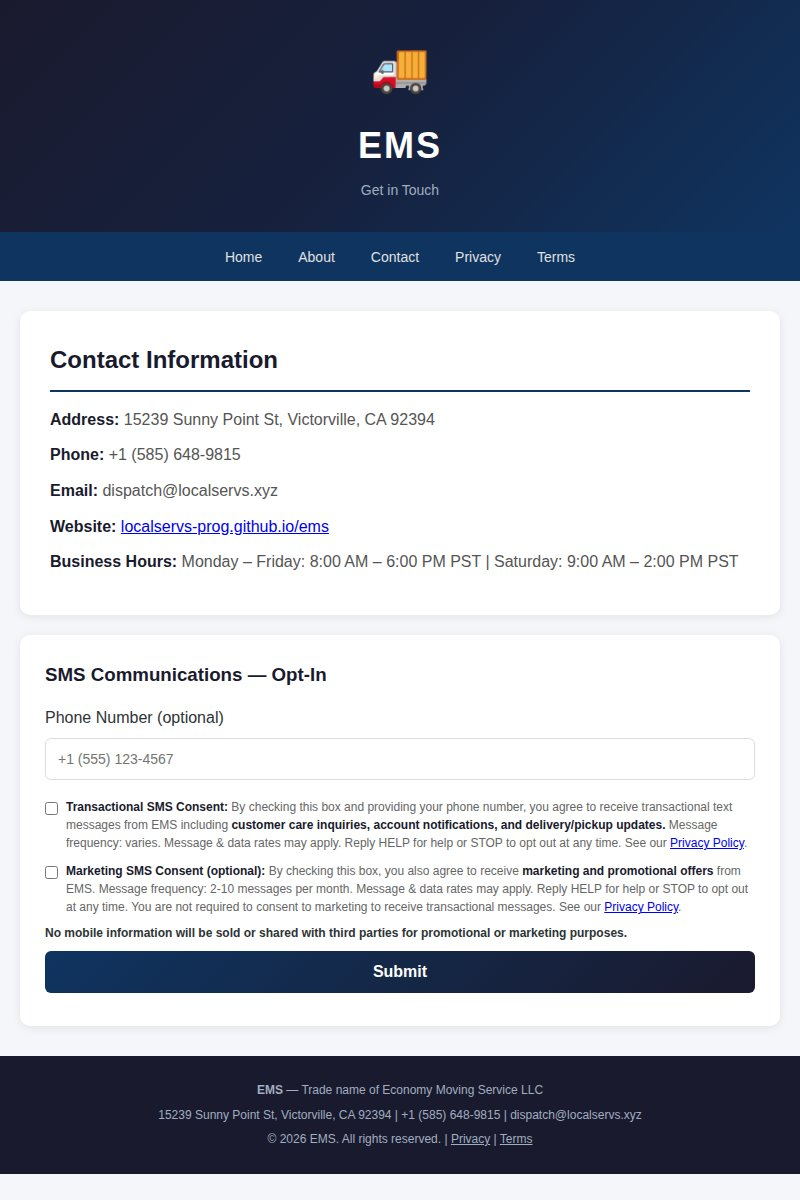
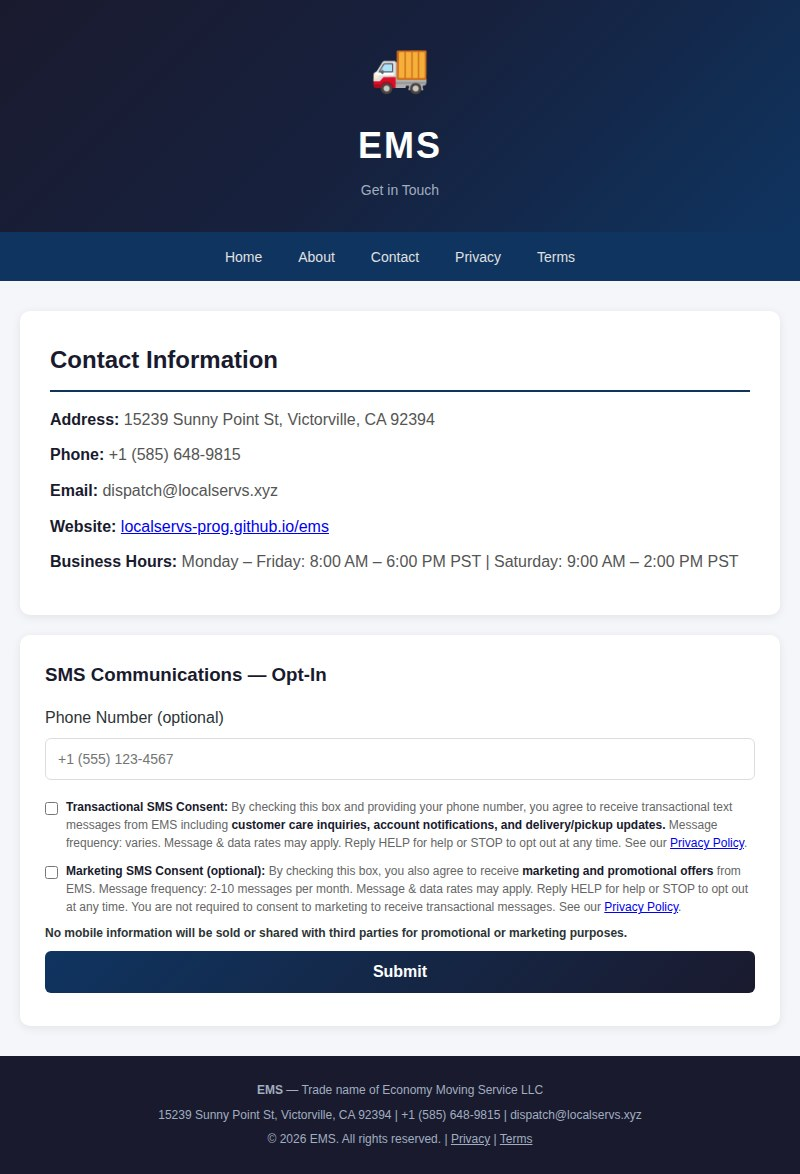
Separate transactional and marketing SMS disclosures (TFV compliance)

Changed region(s): [[0.0, 0.552, 1.0, 1.0], [0.0625, 0.276, 0.9375, 0.4906], [0.0, 0.0307, 1.0, 0.2453]]

diff --git a/privacy.html b/privacy.html
@@ -20,25 +20,17 @@ nav a:hover{color:#fff}
 .card strong{color:#1a1a2e}
 .footer{background:#1a1a2e;color:#a0aec0;text-align:center;padding:20px;font-size:12px;margin-top:30px}
 .footer p{margin:5px 0}
-.form-card{background:#fff;padding:25px;border-radius:10px;box-shadow:0 2px 10px rgba(0,0,0,0.08)}
-.form-card h3{color:#1a1a2e;margin-bottom:15px}
-.form-card input,.form-card button{padding:12px;margin:8px 0;width:100%;border:1px solid #ddd;border-radius:6px;font-size:14px}
-.form-card button{background:linear-gradient(135deg,#0f3460,#1a1a2e);color:#fff;border:none;font-size:16px;font-weight:600;cursor:pointer}
-.checkbox-group{display:flex;align-items:flex-start;gap:8px;margin-top:10px}
-.checkbox-group input[type="checkbox"]{width:auto;margin-top:4px;flex-shrink:0}
-.consent{font-size:12px;color:#666;line-height:1.5}
-.consent strong{color:#1a1a2e}
-.legal-note{font-size:11px;color:#e74c3c;text-align:center;margin-top:10px}
 </style></head><body>
 <div class="header"><span class="brand-truck">🚚</span><h1>EMS</h1><p class="tagline">Privacy Policy</p></div>
 <nav><a href="index.html">Home</a><a href="about.html">About</a><a href="contact.html">Contact</a><a href="privacy.html">Privacy</a><a href="terms.html">Terms</a></nav>
 <div class="container">
-<div class="card"><h2>Privacy Policy</h2><p><strong>Last updated:</strong> July 2026</p>
+<div class="card"><h2>Privacy Policy</h2><p><strong>Last updated:</strong> November 2026</p>
 <p>EMS ("we," "us," or "our") is committed to protecting your privacy.</p>
 <h3>Information Collection</h3><p>We collect your name, email, and phone number only when you voluntarily submit them through our contact form.</p>
-<h3>Use of Information</h3><p>Your information is used solely to communicate with you regarding our services, including SMS notifications about customer care, account updates, delivery/pickup status, and promotional offers.</p>
+<h3>Use of Information</h3><p>Your information is used solely to communicate with you regarding our services.</p>
 <h3>No Sale of Data</h3><p>No mobile information will be sold or shared with third parties for promotional or marketing purposes.</p>
-<h3>SMS Communications</h3><p>By providing your phone number and consenting to receive SMS, you may receive messages including customer care, account notifications, delivery updates, and marketing offers. Message frequency: 2-10 per month. Message &amp; data rates may apply. Reply STOP to opt out, HELP for help.</p>
+<h3>SMS Communications — Transactional</h3><p>If you opt in to transactional messages, we may send you text messages related to a service you requested, including customer care responses, account notifications, and delivery/pickup status updates. Message frequency varies based on your requests and active service. Message &amp; data rates may apply. Reply STOP to opt out, HELP for help. Consent is not a condition of purchase.</p>
+<h3>SMS Communications — Marketing</h3><p>If you separately opt in to marketing messages, we may send you promotional offers and service announcements, up to 10 messages per month. Message &amp; data rates may apply. Reply STOP to opt out, HELP for help. Marketing consent is optional and is not required to receive transactional messages; transactional service is not conditioned on marketing consent.</p>
 <h3>Data Security</h3><p>We implement reasonable security measures to protect your personal information.</p>
 <h3>Contact</h3><p>For privacy inquiries: dispatch@localservs.xyz</p></div>
 </div>

diff --git a/terms.html b/terms.html
@@ -20,23 +20,13 @@ nav a:hover{color:#fff}
 .card strong{color:#1a1a2e}
 .footer{background:#1a1a2e;color:#a0aec0;text-align:center;padding:20px;font-size:12px;margin-top:30px}
 .footer p{margin:5px 0}
-.form-card{background:#fff;padding:25px;border-radius:10px;box-shadow:0 2px 10px rgba(0,0,0,0.08)}
-.form-card h3{color:#1a1a2e;margin-bottom:15px}
-.form-card input,.form-card button{padding:12px;margin:8px 0;width:100%;border:1px solid #ddd;border-radius:6px;font-size:14px}
-.form-card button{background:linear-gradient(135deg,#0f3460,#1a1a2e);color:#fff;border:none;font-size:16px;font-weight:600;cursor:pointer}
-.checkbox-group{display:flex;align-items:flex-start;gap:8px;margin-top:10px}
-.checkbox-group input[type="checkbox"]{width:auto;margin-top:4px;flex-shrink:0}
-.consent{font-size:12px;color:#666;line-height:1.5}
-.consent strong{color:#1a1a2e}
-.legal-note{font-size:11px;color:#e74c3c;text-align:center;margin-top:10px}
 </style></head><body>
 <div class="header"><span class="brand-truck">🚚</span><h1>EMS</h1><p class="tagline">Terms of Service</p></div>
 <nav><a href="index.html">Home</a><a href="about.html">About</a><a href="contact.html">Contact</a><a href="privacy.html">Privacy</a><a href="terms.html">Terms</a></nav>
 <div class="container">
-<div class="card"><h2>Terms of Service</h2><p><strong>Last updated:</strong> July 2026</p>
-<p>By using our SMS communication service, you may receive messages related to customer care, account notifications, delivery/pickup updates, and promotional offers.</p>
-<p>Standard message and data rates may apply. Message frequency: 2–10 messages per month.</p>
-<p>Reply STOP to unsubscribe at any time. Reply HELP for help.</p>
+<div class="card"><h2>Terms of Service</h2><p><strong>Last updated:</strong> November 2026</p>
+<p><strong>Transactional messages.</strong> By using our SMS communication service, you may receive transactional text messages related to a service you requested, including customer care responses, account notifications, and delivery/pickup status updates. Standard message and data rates may apply. Message frequency varies based on your requests. Reply STOP to unsubscribe at any time. Reply HELP for help.</p>
+<p><strong>Marketing messages.</strong> Separately, if you opt in to marketing messages, you may receive promotional offers and service announcements, up to 10 messages per month. Marketing consent is optional and is not required to receive transactional messages. Reply STOP to unsubscribe at any time. Reply HELP for help.</p>
 <p>EMS is a trade name of Economy Moving Service LLC, a registered business in the United States.</p></div>
 </div>
 <div class="footer">

diff --git a/about.html b/about.html
@@ -20,21 +20,12 @@ nav a:hover{color:#fff}
 .card strong{color:#1a1a2e}
 .footer{background:#1a1a2e;color:#a0aec0;text-align:center;padding:20px;font-size:12px;margin-top:30px}
 .footer p{margin:5px 0}
-.form-card{background:#fff;padding:25px;border-radius:10px;box-shadow:0 2px 10px rgba(0,0,0,0.08)}
-.form-card h3{color:#1a1a2e;margin-bottom:15px}
-.form-card input,.form-card button{padding:12px;margin:8px 0;width:100%;border:1px solid #ddd;border-radius:6px;font-size:14px}
-.form-card button{background:linear-gradient(135deg,#0f3460,#1a1a2e);color:#fff;border:none;font-size:16px;font-weight:600;cursor:pointer}
-.checkbox-group{display:flex;align-items:flex-start;gap:8px;margin-top:10px}
-.checkbox-group input[type="checkbox"]{width:auto;margin-top:4px;flex-shrink:0}
-.consent{font-size:12px;color:#666;line-height:1.5}
-.consent strong{color:#1a1a2e}
-.legal-note{font-size:11px;color:#e74c3c;text-align:center;margin-top:10px}
 </style></head><body>
 <div class="header"><span class="brand-truck">🚚</span><h1>EMS</h1><p class="tagline">About Our Company</p></div>
 <nav><a href="index.html">Home</a><a href="about.html">About</a><a href="contact.html">Contact</a><a href="privacy.html">Privacy</a><a href="terms.html">Terms</a></nav>
 <div class="container">
 <div class="card"><h2>About EMS</h2><p>EMS (Economy Moving Service LLC) is a professional moving and logistics company based in Victorville, California. We specialize in residential and commercial relocation services with an AI-powered customer communication platform.</p>
-<p>Founded to modernize the moving industry, EMS combines logistics expertise with intelligent automation. Our platform provides real-time booking confirmations, delivery status updates, driver notifications, and promotional offers — delivered via SMS to our customers.</p>
+<p>Founded to modernize the moving industry, EMS combines logistics expertise with intelligent automation. Our platform provides real-time booking confirmations, delivery status updates, and driver notifications delivered via SMS to our customers, as well as optional promotional offers for customers who separately opt in to marketing messages.</p>
 <p>We are committed to transparency, reliability, and customer satisfaction in every move we manage.</p></div>
 </div>
 <div class="footer">

diff --git a/index.html b/index.html
@@ -37,7 +37,7 @@ nav a:hover{color:#fff}
 <div class="card"><h2>Our Services</h2>
 <ul><li><strong>Moving & Transportation</strong> — Residential and commercial relocation services</li>
 <li><strong>Delivery & Pickup</strong> — Scheduled and on-demand delivery coordination</li>
-<li><strong>Customer Communications</strong> — SMS notifications for booking confirmations, status updates, and promotions</li>
+<li><strong>Customer Communications</strong> — Transactional SMS notifications for booking confirmations and status updates</li>
 <li><strong>AI Platform</strong> — Intelligent dispatching and customer interaction automation</li></ul></div>
 <div class="card"><h2>Why EMS</h2><p>We combine logistics expertise with AI-powered communication to provide seamless moving experiences. Real-time updates, efficient dispatching, and responsive customer care — powered by technology, delivered with professionalism.</p></div>
 </div>
